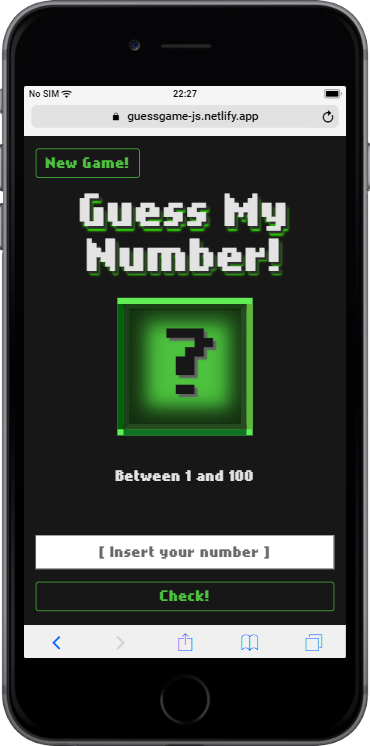
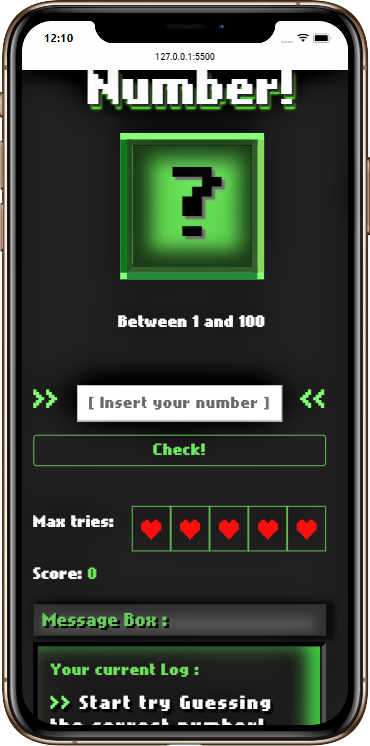
input clear field & UI/UX touch

diff --git a/scss/app.scss b/scss/app.scss
@@ -7,28 +7,45 @@ body {
   background-color: #222020;
   color: rgb(231, 231, 231);
   font-family: 'Nokia Cellphone FC';
-}
 
-#q-box {
-  color: rgb(34, 32, 32);
-  text-shadow: 4px 4px 2px rgb(112, 111, 111);
-}
-
-.main-title {
-  font-size: 4rem;
-  text-shadow: 4px 4px 2px rgb(58, 58, 58), 4px 6px 3px rgb(60, 255, 0);
-
-  @include media-breakpoint-down(xs) {
-    font-size: 3rem;
+  &::-webkit-scrollbar {
+    width: 0.5rem;
   }
-}
 
-.q-box {
-  border: 7px inset hsla(0, 10%, 8%, 0.6);
-  box-shadow: 8px 0px 0px 0px #6ebb4b, 0px 8px 0px 0px #167e30,
-    -8px 0px 0px 0px #026e11, 0px 0px 0px 8px #6ff163,
-    inset 3px 0px 23px 19px rgba(0, 0, 0, 0.46),
-    inset 5px -6px 25px 10px rgba(0, 0, 0, 0.46);
+  &::-webkit-scrollbar-track {
+    background: rgba(0, 0, 0, 0.534);
+  }
+
+  &::-webkit-scrollbar-thumb {
+    background: $primary;
+  }
+
+  main {
+    width: 100%;
+    max-width: 1500px;
+
+    .main-title {
+      font-size: 4rem;
+      text-shadow: 4px 4px 2px rgb(58, 58, 58), 4px 6px 3px rgb(60, 255, 0);
+
+      @include media-breakpoint-down(xs) {
+        font-size: 3rem;
+      }
+    }
+
+    .q-box {
+      #q-box {
+        color: rgb(34, 32, 32);
+        text-shadow: 4px 4px 2px rgb(112, 111, 111);
+      }
+
+      border: 7px inset hsla(0, 10%, 8%, 0.6);
+      box-shadow: 8px 0px 0px 0px #6ebb4b, 0px 8px 0px 0px #167e30,
+        -8px 0px 0px 0px #026e11, 0px 0px 0px 8px #6ff163,
+        inset 3px 0px 23px 19px rgba(0, 0, 0, 0.46),
+        inset 5px -6px 25px 10px rgba(0, 0, 0, 0.46);
+    }
+  }
 }
 
 .right-side > div p:nth-child(1) {
@@ -39,26 +56,6 @@ body {
 #btn-check:hover,
 #btn-check:focus {
   background-color: rgba(255, 0, 0, 0.582);
-}
-
-input[placeholder] {
-  text-align: center;
-}
-
-body::-webkit-scrollbar {
-  width: 0.5rem;
-}
-
-body::-webkit-scrollbar-track {
-  background: rgba(0, 0, 0, 0.534);
-}
-
-body::-webkit-scrollbar-thumb {
-  background: $primary;
-}
-.main {
-  width: 100%;
-  max-width: 1500px;
 }
 
 .message {
@@ -103,11 +100,46 @@ fieldset {
 
   p {
     color: #5ac64c;
+
+    &:nth-child(2)::before {
+      content: '>> ';
+      font-size: 18px;
+      color: #6ff163;
+    }
   }
 }
 
-.user-input::before {
+.user-input {
+  // Remove Arrows/Spinners
+  -moz-appearance: textfield;
+  &::-webkit-inner-spin-button,
+  &::-webkit-outer-spin-button {
+    -webkit-appearance: none;
+  }
+
+  &:active {
+    border-color: #6ff163;
+  }
+
+  &:focus {
+    outline: none;
+  }
+
+  &[placeholder] {
+    text-align: center;
+  }
+}
+
+.input-wrapper::before {
   content: '>>';
-  font-size: 18px;
+  padding-right: 5px;
+  font-size: 25px;
+  color: #6ff163;
+}
+
+.input-wrapper::after {
+  content: '<<';
+  padding-left: 5px;
+  font-size: 25px;
   color: #6ff163;
 }

diff --git a/css/style.css b/css/style.css
@@ -10050,25 +10050,35 @@ body {
   color: #e7e7e7;
   font-family: "Nokia Cellphone FC";
 }
-
-#q-box {
-  color: #222020;
-  text-shadow: 4px 4px 2px #706f6f;
+body::-webkit-scrollbar {
+  width: 0.5rem;
 }
-
-.main-title {
+body::-webkit-scrollbar-track {
+  background: rgba(0, 0, 0, 0.534);
+}
+body::-webkit-scrollbar-thumb {
+  background: var(--primary);
+}
+body main {
+  width: 100%;
+  max-width: 1500px;
+}
+body main .main-title {
   font-size: 4rem;
   text-shadow: 4px 4px 2px #3a3a3a, 4px 6px 3px #3cff00;
 }
 @media (max-width: 575.98px) {
-  .main-title {
+  body main .main-title {
     font-size: 3rem;
   }
 }
-
-.q-box {
+body main .q-box {
   border: 7px inset rgba(22, 18, 18, 0.6);
   box-shadow: 8px 0px 0px 0px #6ebb4b, 0px 8px 0px 0px #167e30, -8px 0px 0px 0px #026e11, 0px 0px 0px 8px #6ff163, inset 3px 0px 23px 19px rgba(0, 0, 0, 0.46), inset 5px -6px 25px 10px rgba(0, 0, 0, 0.46);
+}
+body main .q-box #q-box {
+  color: #222020;
+  text-shadow: 4px 4px 2px #706f6f;
 }
 
 .right-side > div p:nth-child(1) {
@@ -10079,27 +10089,6 @@ body {
 #btn-check:hover,
 #btn-check:focus {
   background-color: rgba(255, 0, 0, 0.582);
-}
-
-input[placeholder] {
-  text-align: center;
-}
-
-body::-webkit-scrollbar {
-  width: 0.5rem;
-}
-
-body::-webkit-scrollbar-track {
-  background: rgba(0, 0, 0, 0.534);
-}
-
-body::-webkit-scrollbar-thumb {
-  background: var(--primary);
-}
-
-.main {
-  width: 100%;
-  max-width: 1500px;
 }
 
 .message {
@@ -10143,10 +10132,39 @@ fieldset::before {
 fieldset p {
   color: #5ac64c;
 }
-
-.user-input::before {
-  content: ">>";
+fieldset p:nth-child(2)::before {
+  content: ">> ";
   font-size: 18px;
+  color: #6ff163;
+}
+
+.user-input {
+  -moz-appearance: textfield;
+}
+.user-input::-webkit-inner-spin-button, .user-input::-webkit-outer-spin-button {
+  -webkit-appearance: none;
+}
+.user-input:active {
+  border-color: #6ff163;
+}
+.user-input:focus {
+  outline: none;
+}
+.user-input[placeholder] {
+  text-align: center;
+}
+
+.input-wrapper::before {
+  content: ">>";
+  padding-right: 5px;
+  font-size: 25px;
+  color: #6ff163;
+}
+
+.input-wrapper::after {
+  content: "<<";
+  padding-left: 5px;
+  font-size: 25px;
   color: #6ff163;
 }
 

diff --git a/index.html b/index.html
@@ -59,14 +59,17 @@
     <main class="row justify-content-between">
       <section class="col col-lg-4 d-flex flex-column mb-2 left-side">
         <form
+          id="form"
           action="/"
           class="d-flex flex-column"
         >
-          <input
-            type="number"
-            class="user-input mb-3 py-2"
-            placeholder="[ Insert your number ]"
-          >
+          <div class="input-wrapper d-flex justify-content-between ">
+            <input
+              type="number"
+              class="user-input py-2 mb-3"
+              placeholder="[ Insert your number ]"
+            >
+          </div>
 
           <button
             type="submit"

diff --git a/js/app.js b/js/app.js
@@ -1,4 +1,4 @@
-let form = document.querySelector('form');
+const form = document.querySelector('#form');
 let userNumber = document.querySelector('.user-input');
 
 let maxBoundary = 100;
@@ -10,6 +10,7 @@ form.addEventListener(
   function (e) {
     resetState(); //reset state after win
     let userGuess = Number(userNumber.value);
+    userNumber.value = '';
 
     // When input number is the same as random one - player wins
     if (userGuess === randomNumber) {
